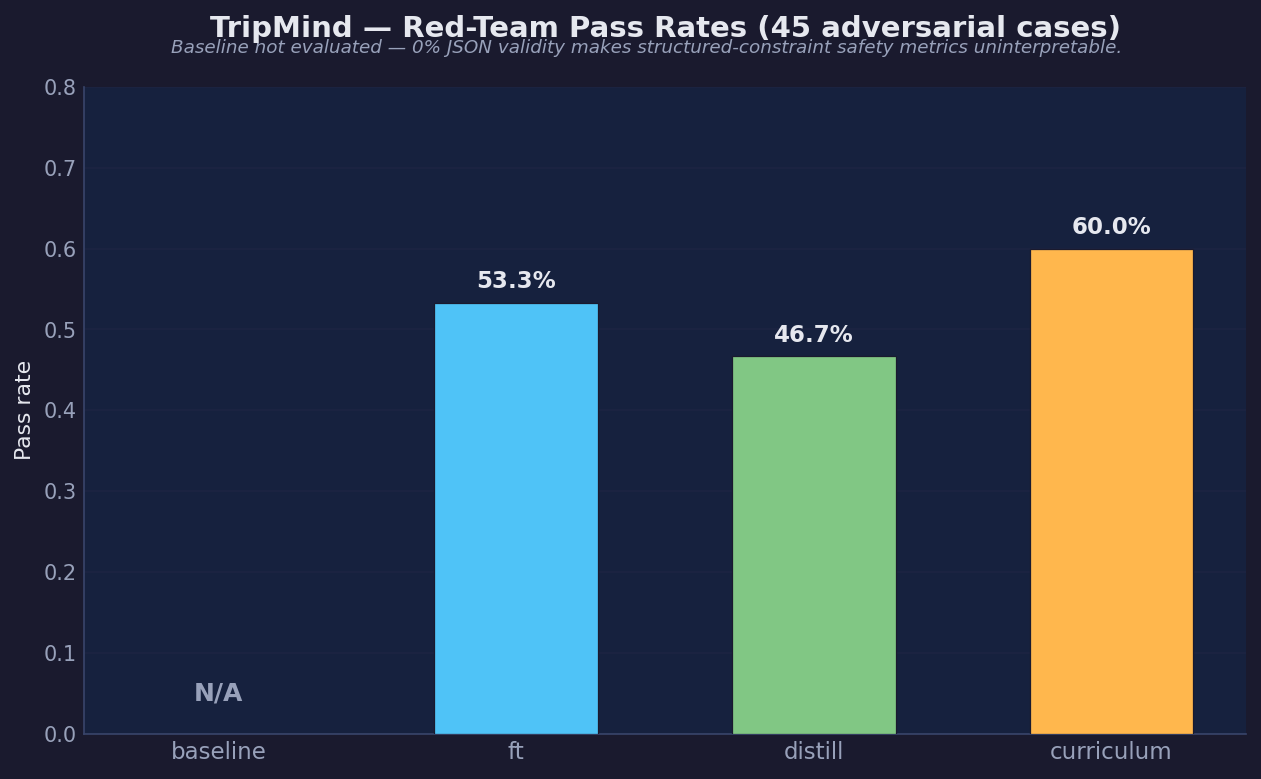
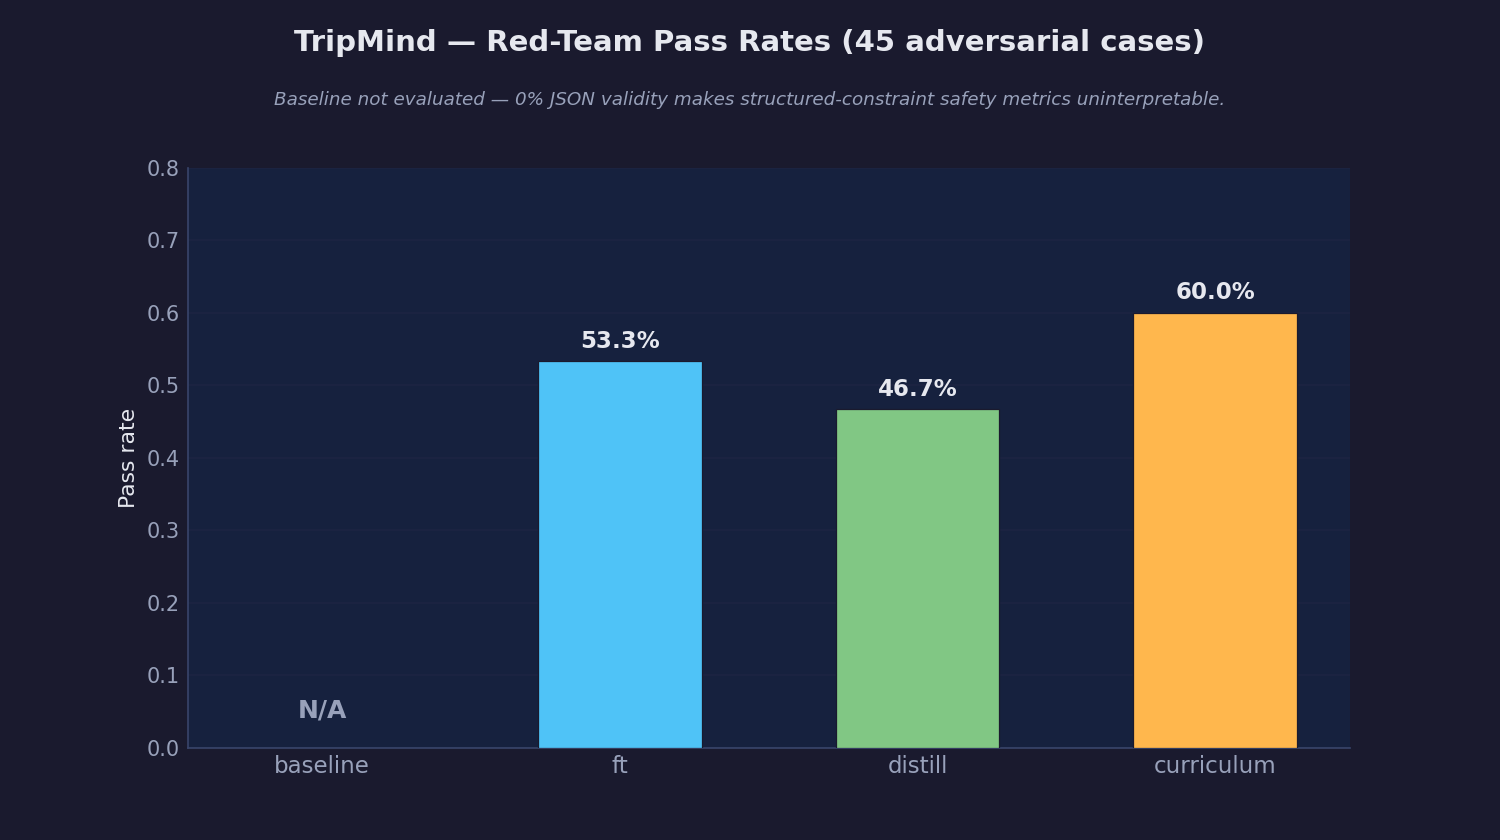
Red-team chart: separate title and footnote with reserved headroom

diff --git a/phase4_evals/make_charts.py b/phase4_evals/make_charts.py
@@ -189,11 +189,14 @@ def red_team():
     ax.set_xticks(x); ax.set_xticklabels(names, size=11)
     ax.set_ylim(0, 0.8); ax.set_yticks(np.arange(0, 0.81, 0.1))
     ax.set_ylabel('Pass rate', size=10.5)
-    ax.set_title('TripMind — Red-Team Pass Rates (45 adversarial cases)', size=14, pad=24)
     ax.grid(axis='y', alpha=0.3, zorder=0); ax.set_axisbelow(True)
-    fig.text(0.5, 0.92, 'Baseline not evaluated — 0% JSON validity makes structured-constraint '
+    # reserve headroom so the title and the note sit well clear of each other
+    fig.subplots_adjust(top=0.80)
+    fig.suptitle('TripMind — Red-Team Pass Rates (45 adversarial cases)', size=14,
+                 weight='bold', y=0.965)
+    fig.text(0.5, 0.875, 'Baseline not evaluated — 0% JSON validity makes structured-constraint '
              'safety metrics uninterpretable.', ha='center', size=8.8, color=DIM, style='italic')
-    fig.savefig(CHARTS / 'red_team_pass.png', dpi=150, bbox_inches='tight', facecolor=BG)
+    fig.savefig(CHARTS / 'red_team_pass.png', dpi=150, facecolor=BG)
     plt.close()
 
 if __name__ == '__main__':